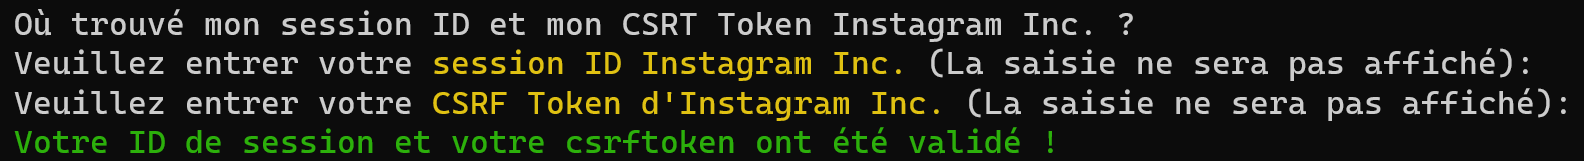
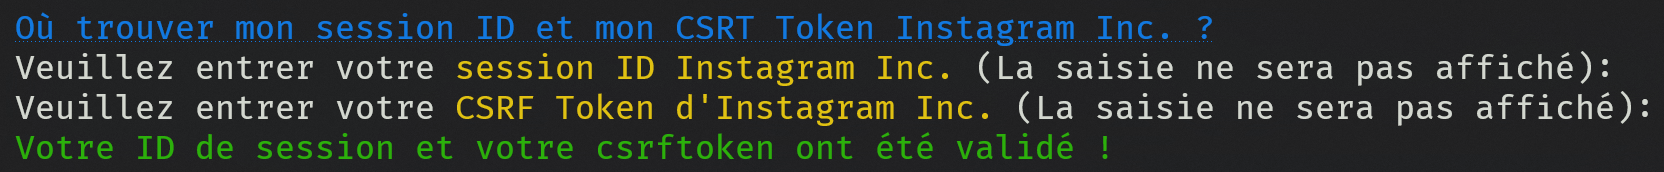
v1.7.1: Fixed typo.

diff --git a/login.py b/login.py
@@ -62,7 +62,7 @@ def get_session_id(console: Console) -> tuple:
     :return:
     """
 
-    console.print('[bold #1279e0 link=https://github.com/romainflcht/igdm_terminal#:~:text=To%20link%20your%20Instagram%20account]Où trouvé mon session ID et mon CSRT Token Instagram Inc. ?[/]')
+    console.print('[bold #1279e0 link=https://github.com/romainflcht/igdm_terminal#:~:text=To%20link%20your%20Instagram%20account]Où trouver mon session ID et mon CSRT Token Instagram Inc. ?[/]')
 
     # Ask the information needed.
     session_id = Prompt.ask('Veuillez entrer votre [bold #e0c112]session ID Instagram Inc. [/]'
